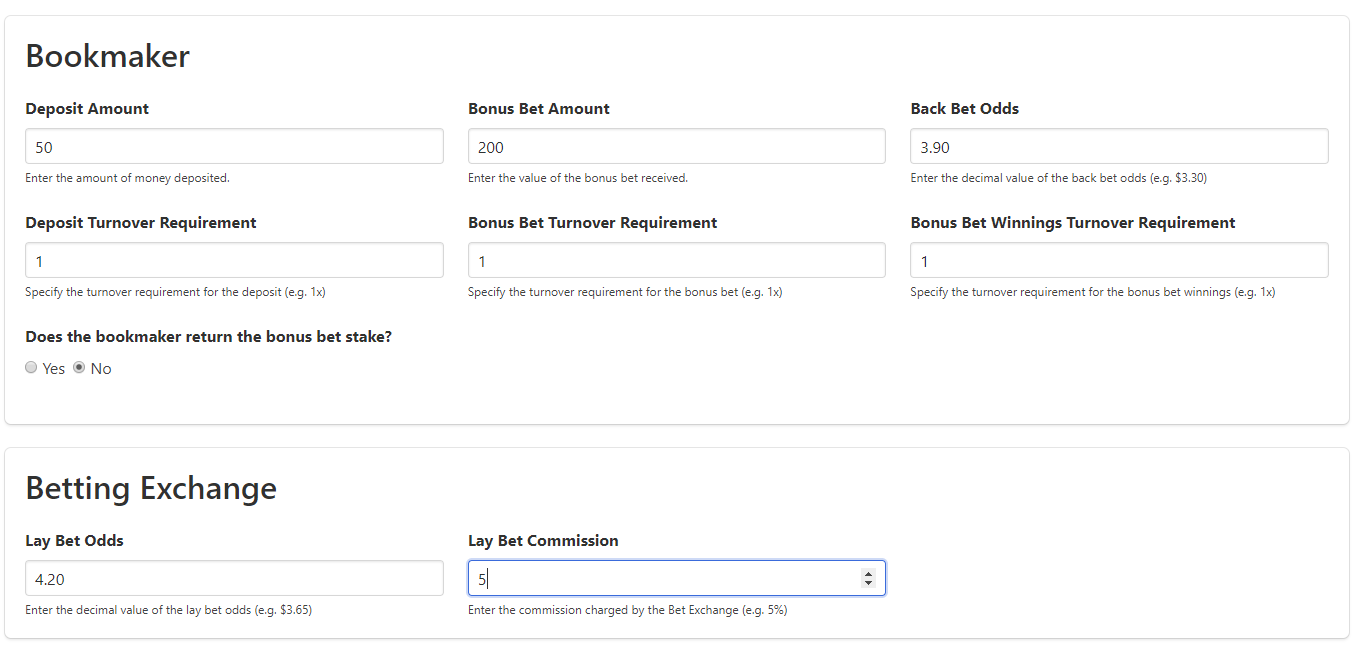
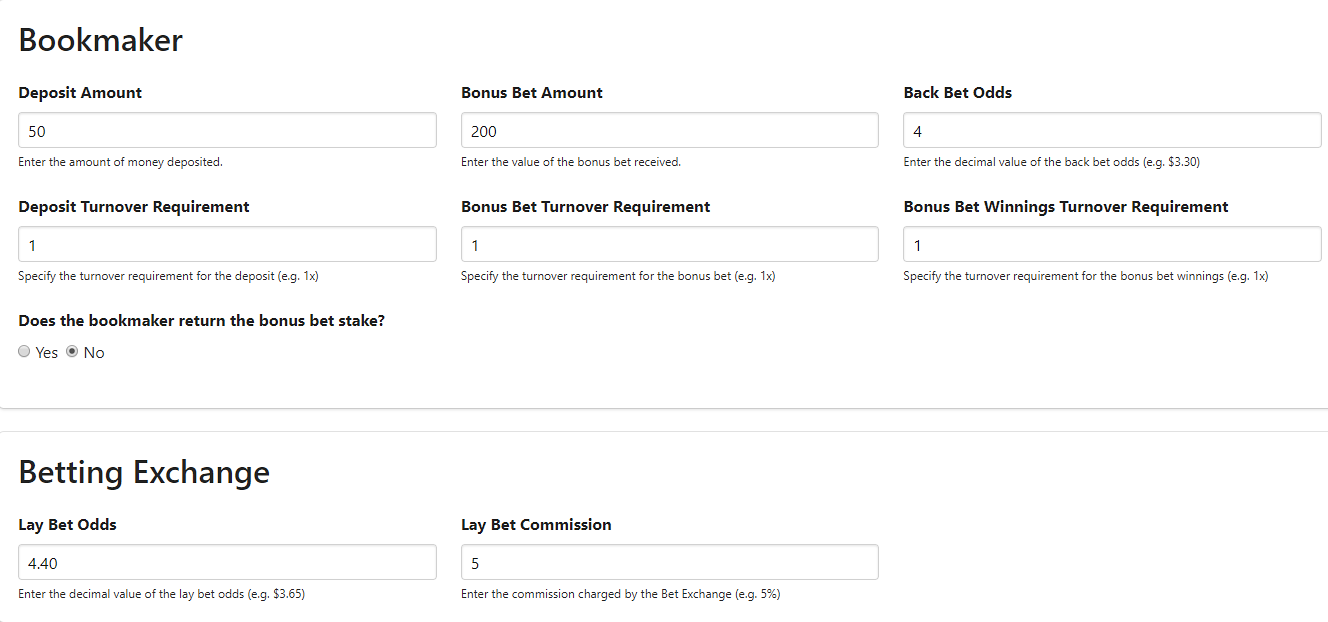
Finished "what is" page and added all images. Ready to go live.

diff --git a/src/components/pages/whatIs.vue b/src/components/pages/whatIs.vue
@@ -1,69 +1,119 @@
 <template lang="html">
 <body>
   <section class="section">
+      <div class="content has-text-left">
       <div class="container">
       <div class="box">
 
-      <p class="title is-3">A Beginner's Guide to Matched Betting</p>
-      <div class="content has-text-left">
+      <p class="title is-3 has-text-centered">A Beginner's Guide to Matched Betting</p>
+   
 
         <hr>
         <p>Now, if you're anything like my friends, if I was to tell you I've found a great way to make <strong>risk free money from gambling</strong>
-        you would be a little dubious. That's part of the reason why I made this website, to prove to them and anyone else who is curious that it's possible and quite easy to do.
+        you would be hesitant to believe me. That's part of the reason why I made this website, to prove to them and anyone else who is curious that it's possible and quite easy to do.
         </p>
 
-        <p>In just over two weeks of using this technique in my spare time I was able to profit over $700. I never lost any money during this time, and at no point was actually at risk of doing so.
+        <p>In just over two weeks of using this technique in my spare time I was able to profit over $700. I never lost any money during this time, and at no point was I actually at risk of doing so.
         </p>
 
         <p>Now I wouldn't just expect you to take my word for it, so let me run you through the process and you can see for yourself that it truly is risk free.
         </p>
 
          <h2>Concept</h2>
-         <p>The concept of Matched Betting is quite simple. You bet for an outcome to happen on a bookmaker site (e.g. for Real Madrid win a soccer game), while on a betting exchange you bet against the same outcome (e.g. you bet that Real Madrid will <u>not</u> win)
+         <p>The concept of Matched Betting is quite simple. You bet for an outcome to happen on a Bookmaker Site (e.g. for Real Madrid win a soccer game), while on a Betting Exchange you bet against the same outcome (e.g. you bet that Real Madrid will <u>not</u> win)
          </p>
          
-         <p>This means whate ever the outcome, one of your bets is going to win. Now the way the odds are setup, you still won't make a profit from doing this with your own money (that would be too easy right?). This technique only works when the bet one of the bets is a <strong>bonus bet</strong>. These are easily obtained by signing up to a bookmaker site and meeting their deposit criteria.
+         <p>This means whate ever the outcome, one of your bets is going to win. Now the way the odds are setup, you still won't make a profit from doing this with your own money (that would be too easy right?). This technique only works when the bet one of the bets is a <strong>Bonus Bet</strong>. These are easily obtained by signing up to a Bookmaker and meeting their deposit criteria.
          </p>
          
-         <h6></h6>  
+          
          
          <h2>Terminology</h2>
-         <p>Before running through an example let's start with some terminology that will help make everything clear.
+         <p>Before running through an example let's start with some terminology that will help make everything easier to understand.
          </p>    
 
 
-        <li><strong>Back Bet:</strong> To 'back' a selection in a market is to place a bet for something to happen. This is the type of bet that you would place with a traditional <u>bookmaker</u>. </li>
-        <li><strong>Bonus Bet:</strong> A bonus bet is a betting credit awarded by a bookmaker, these are typically in the form of a sign up bonus or offered ad hoc for depositing a certain amount of money. </li>
-        <li><strong>Lay Bet:</strong> To 'lay' a selection in a market is to place a bet for something NOT to happen, or in other words, bet against something happening. This is done on a <u>betting exchange</u> </li>
-        <li><strong>Liability:</strong> When laying a team, you play the part of the traditional bookmaker. If your bet doesn’t work out as planned, you need to pay out as a traditional bookmaker would. This is referred to as your liability</li>
-        <li><strong>Turnover Requirement:</strong> This is amount of money that you must wager with a bookmaker before they let you withdraw any winnings from a bonus bet. This turnover limit can apply to your deposit, your bonus bet and your bonus winngs. Make sure to read the website terms and conditions to identify this.</li>
-        <li><strong>Commission:</strong> As a betting exchange is essentially 'peer to peer' betting, they charge a commission percentage for the winnings you make.</li>
+        <li><strong>Back Bet:</strong> To 'back' a selection in a market is to place a bet for something to happen. This is the type of bet that you would place with a traditional <u>Bookmaker</u>. </li>
+        <li><strong>Bonus Bet:</strong> A bonus bet is a betting credit awarded by a bookmaker, these are typically in the form of a sign up bonus or offered ad hoc for depositing a set amount of money. </li>
+        <li><strong>Lay Bet:</strong> To 'lay' a selection in a market is to place a bet for something NOT to happen, or in other words, bet against something happening. This is done on a <u>Betting Exchange.S</u>  If your Lay Bet is successful, you always get twice your money back as this is the money that someone else has bet on a Win. If you lose a Lay Bet you pay your Liability.</li>
+        <li><strong>Liability:</strong> When laying a team, you play the part of the traditional Bookmaker. If your bet doesn’t work out as planned, you need to pay out as a traditional Bookmaker would. This is referred to as your Liability.</li>
+        <li><strong>Turnover Requirement:</strong> This is amount of money that you must wager with a Bookmaker before they let you withdraw any winnings from a bonus bet. This turnover limit can apply to your deposit, your bonus bet and your bonus winngs. Make sure to read the website terms and conditions to identify this.</li>
+        <li><strong>Commission:</strong> As a Betting Exchange is essentially 'peer to peer' betting, they charge a commission on the winnings you make.</li>
 
         <h2>Example</h2>       
         <p>I will now run you through an example, using the calculator I have built into this website. This calculator ensures you get the same profit from either outcome, and that any turnover requirements are met to make sure you can withdraw your money.</p>
         
-        <blockquote><p><strong>Step 1:</strong> Sign up to a betting exchange site. 
+        <blockquote><p><strong>Step 1:</strong> Sign up to a Betting Exchange. 
         </p>
     
         </blockquote>
 
-        <blockquote><p><strong>Step 2:</strong> Sign up to a bookmaker site.
-        </p> Check out the Bonus Bets tab above for a list of websites currently offering bonus bets!
-        
+        <blockquote><p><strong>Step 2:</strong> Sign up to a Bookmaker  and claim your Bonus Bet.
+        </p> <p><u>Check out the Bonus Bets tab above for a list of websites currently offering Bonus Bets!</u></p>
         <figure class="image">
-            <img src="../../assets/BonusBet.png">
+        <img src="../../assets/BonusBet.png">
         </figure>
-
         </blockquote>    
 
 
         <blockquote><p><strong>Step 3:</strong> Find your bet!
-        </p> You can use an Oddshttps://www.freebets4all.com/AutoMatcher
-
+        </p> You can use <a href="https://www.freebets4all.com/AutoMatcher">AutoMatcher</a> to find the optimal bet that will return a higher percent of your Bonus Bet. Just change the "Optimise for Bet Type..." dropdown to SNR Free Bet Profit. The SNR (%) represents the percentage of your bonus bet you can win back.
         <figure class="image">
         <img src="../../assets/OddsMatcher.png">
         </figure>
-        </blockquote>      
+        <p><strong>Note:</strong> The higher the Lay Odds, the higher your liability (and hence the amount you need to deposit onto the Betting Exchange). You will get this money back but it may not be optimal if you do not have a large amount of cash at your disposal. Lower odds typically result in a lower percentage of your Bonus Bet being returned.
+        </p>
+        </blockquote>
+
+        <blockquote><p><strong>Step 4:</strong> Find the Turnover Requirements for the Bookmaker, these are usually found in the Terms and Conditions.
+        <figure class="image">
+        <img src="../../assets/TurnoverRequirement.png">
+        </figure>
+        <p><strong>Note:</strong> There is always a Turnover Requirement of 1x on your deposit. The Turnover Requirement for the bonus bet value and winnings usually varies from Bookmaker to Bookmaker.
+        </p>
+        </blockquote>
+
+        <blockquote><p><strong>Step 5:</strong> Use the Matched Betting Calculator to determine how much you need to bet.
+        <p>In this example we are using the Back Odds of $4 and the Lay Odds of $4.40. The Turnover Requirements are 1x for Deposit, Bonus Bet Value, and Bonus Bet Winnings. Ladbrokes do not return the value of the bonus bet in your winnings, some Bookmakers will. The Betting Exchange BetFair charges 5% commission.
+         </p> 
+        <figure class="image">
+        <img src="../../assets/Bet1Calc.png">
+        </figure>
+        <p>To ensure an even profit on either outcome, we need to make a $183.87 Lay Bet which requires depositing $625.14. We will make a $250 Back Bet of which $200 is our bonus bet. As you can see from the returns, no matter the outcome we will profit $124.67 (Approximately 62% of the Bonus Bet).
+        </p>
+        <p>You can see in this instance we have an additional Turnover Requirement to meet because if the Back Bet wins (as you are typically backing a non-favourite/high odds outcome this happens less often than the Lay Bet winning in my experience). This will reduce our profit but is necessary to withdraw the funds risk free. 
+        </p>
+        <p>If the Lay Bet wins, you can withdraw your winnings and repeat the process with another Bonus Bet!
+        </p>
+        <figure class="image">
+        <img src="../../assets/Bet1Profit.png">
+        </figure>
+        </blockquote>  
+
+        <blockquote><p><strong>Step 6: Make your bets</strong></p>
+        In this case we are placing a Back Bet of $250 @ $4 on a Draw outcome.
+        <figure class="image">
+        <img src="../../assets/BackBet.png" style="width:310px;height:135px;">
+        </figure>
+        And a Lay Bet of $183.87 @ $4.40 that a Draw will not occur:
+        <figure class="image">
+        <img src="../../assets/LayBet.png" style="width:525px;height:173px;">
+        </figure>
+        </blockquote> 
+
+     
+        <blockquote><p><strong>Step 7: This is only required if you have turnover requirements. </strong> Find another match using the AutoMatcher, and enter the odds to find out what you need to bet.
+        <p>Now that you have satisfied your Turnover Requirement on the Bookmaker you can withdraw your money regardless of if the Back Bet or Lay Bet win. As you can see the profit has been significantly reduced, and for this reason it is best to find Bookmakers that don't have Turnover Requirements on Bonus Winnings.
+         </p> 
+        <figure class="image">
+        <img src="../../assets/TurnoverBet.png" >
+        </figure>
+
+        </blockquote>         
+
+        <blockquote><p><h1>Step 8: Repeat this for all of the Bonus Bets listed above and maximise your profit!</h1></p>
+
+        </blockquote>     
 
         </div>
         </div>

diff --git a/src/components/startingPage.vue b/src/components/startingPage.vue
@@ -2,7 +2,8 @@
     <section >
 
 <!-- Title bar -->        
-    <section class="hero is-info is-medium">
+
+    <section class="hero is-success is-medium">
       <div class="hero-body">
         <div class="container">
           <h1 class="title">Advanced Matching Betting</h1>
@@ -54,7 +55,7 @@
          <footer class="footer">
             <div class="content has-text-centered">
                 <p>
-                    <strong>Matched Betting Pro</strong> by Jarryd Cheso. Copyright 2018.
+                    <strong>Advanced Matched Betting</strong> by JC. For all inquiries mail <a href="advancedmatchedbetting@gmail.com">advancedmatchedbetting@gmail.com</a>
                 </p>
             </div>
         </footer>
@@ -90,10 +91,18 @@ export default {
         addPage(page_name) {
             this.page = page_name
         }
+        
     }
 }
 </script>
 
 <style lang="css">
 
+.navbar {
+    overflow: hidden;
+    background-color: #333;
+    position: fixed; /* Set the navbar to fixed position */
+    top: 0; /* Position the navbar at the top of the page */
+    width: 100%; /* Full width */
+}
 </style>
